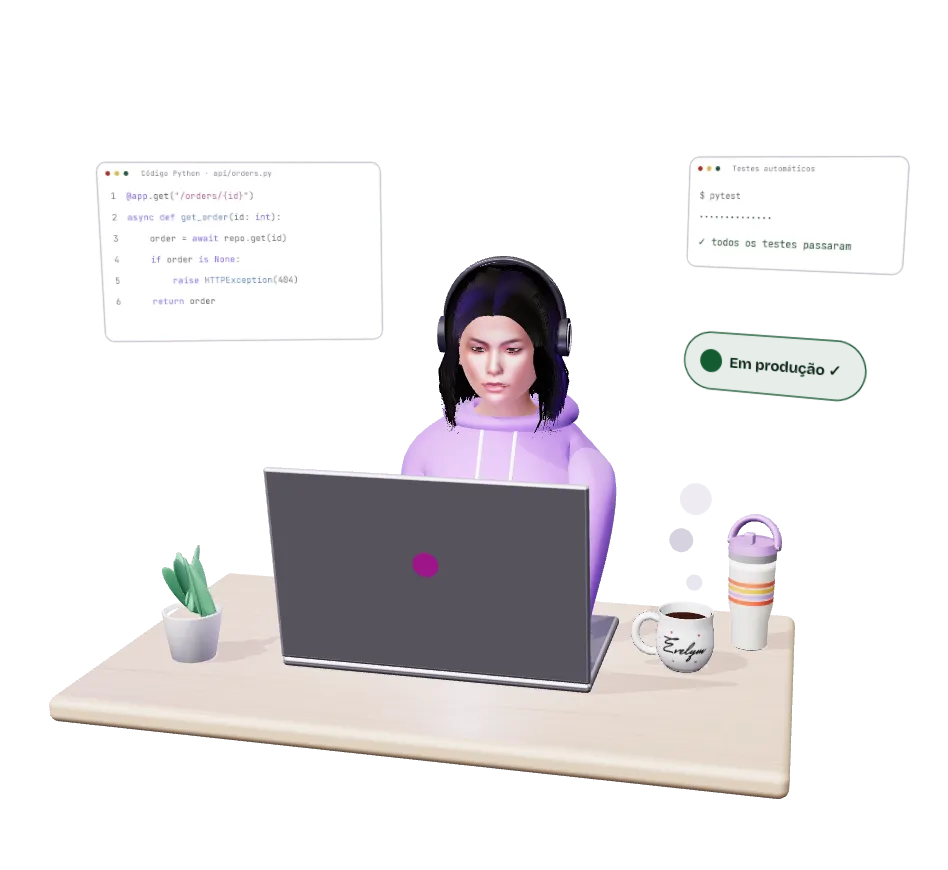
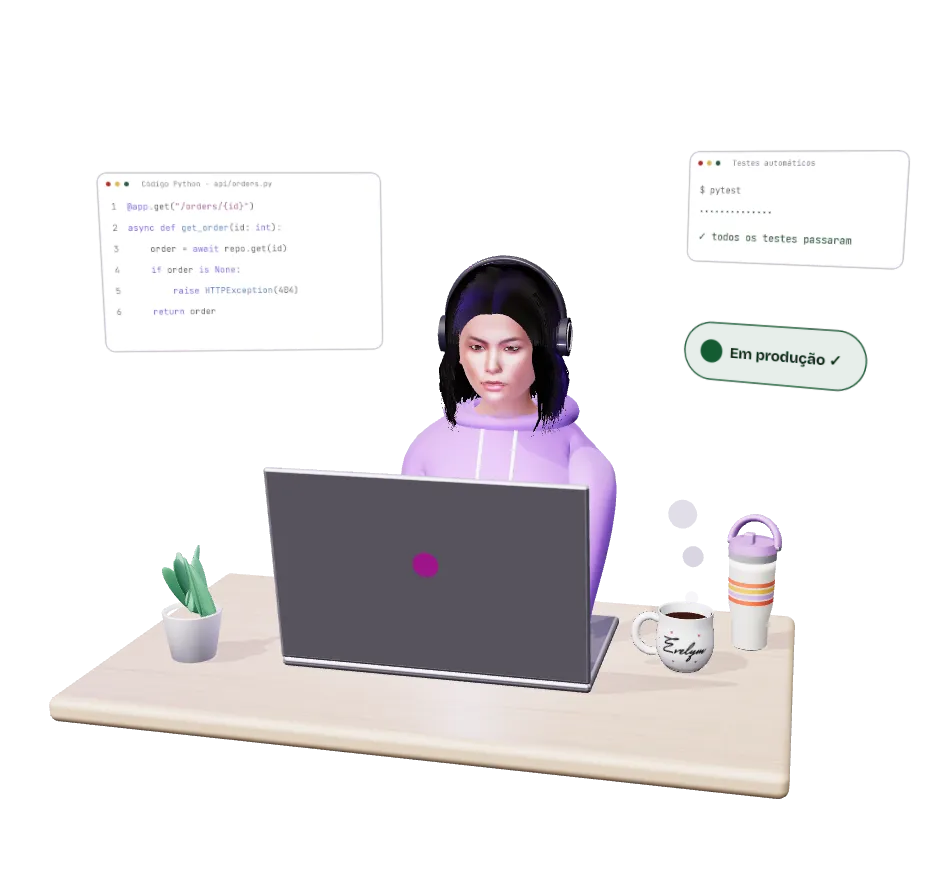
revert: tira o gole de café da cena e mantém só o sorriso no deploy

diff --git a/components/scene/hero-scene.ts b/components/scene/hero-scene.ts
@@ -93,7 +93,7 @@ const CYCLE = 24;
  * Momento da história do pôster e do primeiro quadro ao vivo: código pronto, testes passando e "Em produção". Começar
  * daqui deixa a troca imagem → cena imperceptível; depois a história recomeça sozinha.
  */
-const POSTER_T = 23.6;
+const POSTER_T = 20;
 /** Personagem gerada por scripts/personagem/ (npm run personagem; exportar.py gera o arquivo). */
 const MODEL_URL = "/models/evelym.glb";
 /** O modelo sai em metros; a cena usa uma escala maior (a mesa tem 2,15 de largura). */
@@ -716,93 +716,6 @@ export async function createHeroScene(
     qInv.copy(qParent).invert();
     b.quaternion.copy(qInv).multiply(q).multiply(qParent).multiply(rest.get(b)!);
   }
-  /* Gole de café depois do deploy (ideia da dona, 2026-11-23). A mão esquerda, do lado da caneca, segue uma curva
-     contínua do teclado até a caneca e dela até a boca, e volta pelo mesmo caminho. Ela segura a caneca pelo corpo, pelo
-     lado de fora: a mão fica do lado dela, o nome continua virado para a frente e nada cruza o rosto. O braço segue a mão
-     por cinemática inversa de dois ossos; o cotovelo começa no plano da pose de digitar (sem salto) e desce na subida. */
-  const armU = bone("upperarm_l");
-  const armL = bone("lowerarm_l");
-  root.updateMatrixWorld(true);
-  const restLocalU = armU.quaternion.clone();
-  const restLocalL = armL.quaternion.clone();
-  const restWorldU = armU.getWorldQuaternion(new Quaternion());
-  const restWorldL = armL.getWorldQuaternion(new Quaternion());
-  const S0 = armU.getWorldPosition(new Vector3());
-  const E0 = armL.getWorldPosition(new Vector3());
-  const W0 = hands[0].hand.getWorldPosition(new Vector3());
-  const lenU = S0.distanceTo(E0);
-  const lenL = E0.distanceTo(W0);
-  const dirU0 = E0.clone().sub(S0).normalize();
-  const dirL0 = W0.clone().sub(E0).normalize();
-  const poleRest = E0.clone().multiplyScalar(2).sub(S0.clone().add(W0).multiplyScalar(0.5));
-  const poleLift = S0.clone().add(new Vector3(0.55, -0.9, 0.15)); // cotovelo para fora e para baixo
-  const pole = new Vector3();
-  const mugHome = mug.position.clone();
-  const mugCenter = mug.localToWorld(new Vector3(0, 0.09, 0));
-  // punho do lado de fora da caneca (lado da personagem), um pouco atrás: os dedos a envolvem pela frente
-  const wristGrab = mugCenter.clone().add(new Vector3(0.12, 0.0, -0.1));
-  const mugFromWrist = mug.getWorldPosition(new Vector3()).sub(wristGrab);
-  const headCenter: Object3D = centro;
-  const mouth = headCenter
-    .getWorldPosition(new Vector3())
-    .add(new Vector3(0, -0.075 * MODEL_SCALE, 0.1 * MODEL_SCALE));
-  // caneca na boca: borda nos lábios, um pouco à frente e para o lado da mão
-  const wristMouth = mouth
-    .clone()
-    .add(new Vector3(0.03, -0.2, 0.12))
-    .sub(mugFromWrist);
-  const handPath = new CatmullRomCurve3(
-    [
-      W0,
-      W0.clone()
-        .lerp(wristGrab, 0.5)
-        .add(new Vector3(0.05, 0.08, 0)), // sobe um pouco ao sair do teclado
-      wristGrab,
-      wristGrab
-        .clone()
-        .lerp(wristMouth, 0.5)
-        .add(new Vector3(0.1, -0.02, 0)), // a caneca sobe pelo lado de fora
-      wristMouth,
-    ],
-    false,
-    "centripetal"
-  );
-  const GRAB = 0.5; // ponto da curva em que a mão chega à caneca (terceiro de cinco pontos)
-  const vS = new Vector3();
-  const vE = new Vector3();
-  const vW = new Vector3();
-  const vT = new Vector3();
-  const vDir = new Vector3();
-  const vN = new Vector3();
-  const vTmp = new Vector3();
-  const vHold = new Vector3();
-  const qArm = new Quaternion();
-  /** Põe o punho esquerdo em `target` (cena), com o cotovelo para o lado de `pole`. */
-  function reach(target: Vector3) {
-    armU.getWorldPosition(vS);
-    vDir.subVectors(target, vS);
-    const d = Math.min(vDir.length(), lenU + lenL - 1e-3);
-    vDir.normalize();
-    const cos = Math.min(1, Math.max(-1, (lenU * lenU + d * d - lenL * lenL) / (2 * lenU * d)));
-    vN.subVectors(pole, vS);
-    vN.addScaledVector(vDir, -vN.dot(vDir)).normalize();
-    vE.copy(vS)
-      .addScaledVector(vDir, lenU * cos)
-      .addScaledVector(vN, lenU * Math.sqrt(1 - cos * cos));
-    vW.copy(vS).addScaledVector(vDir, d);
-    qArm.setFromUnitVectors(dirU0, vTmp.subVectors(vE, vS).normalize()).multiply(restWorldU);
-    armU.parent!.getWorldQuaternion(qParent);
-    armU.quaternion.copy(qParent.invert()).multiply(qArm);
-    armU.updateMatrixWorld(true);
-    qArm.setFromUnitVectors(dirL0, vTmp.subVectors(vW, vE).normalize()).multiply(restWorldL);
-    armL.parent!.getWorldQuaternion(qParent);
-    armL.quaternion.copy(qParent.invert()).multiply(qArm);
-  }
-  const ease = (u: number, a: number, b: number) => {
-    const x = Math.min(1, Math.max(0, (u - a) / (b - a)));
-    return x * x * (3 - 2 * x);
-  };
-
   // Os fones são da cena (já aprovados), presos ao centro da cabeça, no tamanho da cabeça do modelo.
   const head = new Group();
   head.scale.setScalar(PHONES_SCALE);
@@ -1027,9 +940,9 @@ export async function createHeroScene(
           ? Math.sin(((bt - 0.3) / 0.16) * PI)
           : 0;
     for (const m of blinkers) m.morphTargetInfluences![m.morphTargetDictionary!.piscar] = blink;
-    // sorriso leve quando o deploy vai para produção (16 s), até ela pegar o café
+    // sorriso leve quando o deploy vai para produção (16 s); séria de novo antes do quadro do pôster (20 s)
     const sorrir =
-      Math.min(1, Math.max(0, (u - 16.3) / 0.6)) * Math.min(1, Math.max(0, (17.9 - u) / 0.5));
+      Math.min(1, Math.max(0, (u - 16.3) / 0.6)) * Math.min(1, Math.max(0, (19.6 - u) / 0.7));
     const smile = sorrir * sorrir * (3 - 2 * sorrir);
     for (const m of smilers) m.morphTargetInfluences![m.morphTargetDictionary!.sorriso] = smile;
     // mãos e dedos digitando (calmos quando o código termina)
@@ -1041,45 +954,15 @@ export async function createHeroScene(
         turn(f, qTurn.setFromAxisAngle(AX, curl));
       });
     });
-    // gole de café: uma ida contínua até a boca (18 a 19,9 s), o gole (19,9 a 21,1 s) e a volta (21,1 a 23 s)
-    const path = u < 19.9 ? ease(u, 18, 19.9) : u < 21.1 ? 1 : 1 - ease(u, 21.1, 23);
-    const sip = u >= 19.9 && u < 21.1 ? Math.sin(((u - 19.9) / 1.2) * PI) : 0;
-    const held = u >= 18 && u < 23 && path >= GRAB;
-    if (u >= 18 && u < 23) {
-      handPath.getPoint(path, vT);
-      pole.lerpVectors(poleRest, poleLift, ease(path, 0.3, 0.8));
-      reach(vT);
-      // dedos fechados em volta da caneca
-      if (path >= GRAB - 0.08)
-        for (const f of hands[0].fingers) turn(f, qTurn.setFromAxisAngle(AX, 0.85));
-    } else {
-      armU.quaternion.copy(restLocalU);
-      armL.quaternion.copy(restLocalL);
-    }
-    if (held) {
-      // a caneca vai com a mão e inclina a borda para a boca no gole, sem girar
-      vHold.copy(mugFromWrist).applyAxisAngle(AX, -0.55 * sip);
-      hands[0].hand.getWorldPosition(vTmp).add(vHold);
-      mug.position.copy(root.worldToLocal(vTmp));
-      mug.rotation.x = -0.55 * sip;
-    } else {
-      mug.position.copy(mugHome);
-      mug.rotation.x = 0;
-    }
-    // cabeça: leve aceno de concentração, acompanhando o ponteiro (e inclinada para trás no gole)
+    // cabeça: leve aceno de concentração, acompanhando o ponteiro
     ptr.x += (ptr.tx - ptr.x) * 0.06;
     ptr.y += (ptr.ty - ptr.y) * 0.06;
     qTurn.setFromAxisAngle(AY, Math.sin(t * 0.33) * 0.05 + ptr.x * 0.1);
-    turn(
-      headBone,
-      qTurn.multiply(qNod.setFromAxisAngle(AX, 0.06 + Math.sin(t * 0.8) * 0.02 - 0.2 * sip))
-    );
-    // o vapor some enquanto a caneca está fora da mesa
-    const steamOn = 1 - ease(u, 18.7, 19.2) + ease(u, 22.2, 22.8);
+    turn(headBone, qTurn.multiply(qNod.setFromAxisAngle(AX, 0.06 + Math.sin(t * 0.8) * 0.02)));
     steam.forEach((m, i) => {
       const fz = (t * 0.22 + i / 3) % 1;
       m.position.set(0.74 + Math.sin(fz * 6 + i) * 0.025, 0.2 + fz * 0.4, -0.18);
-      (m.material as MeshBasicMaterial).opacity = Math.sin(fz * PI) * steamPeak * steamOn;
+      (m.material as MeshBasicMaterial).opacity = Math.sin(fz * PI) * steamPeak;
       m.scale.setScalar(0.6 + fz * 1.2);
     });
     editor.m.position.y = 1.2 + Math.sin(t * 0.6) * 0.025;

diff --git a/openspec/changes/personagem-3d-modelada/tasks.md b/openspec/changes/personagem-3d-modelada/tasks.md
@@ -80,11 +80,8 @@ Termina com: a cena no navegador local com a personagem nova digitando, piscando
 > - sorriso animado (2026-11-23, ideia da dona): forma "sorriso" no corpo (cantos da boca, largura da boca e maçãs do
 >   rosto); ela fica séria e sorri de leve quando o selo vira "Em produção" (16 s), voltando a ficar séria antes do quadro
 >   do pôster (20 s), que segue neutro;
-> - gole de café (2026-11-23, ideia da dona): depois do deploy e do sorriso, a mão esquerda segue uma curva contínua do
->   teclado até a caneca (pega pelo corpo, pelo lado de fora, sem girar: o nome fica de frente) e dela até a boca (18 a
->   19,9 s); ela bebe inclinando a cabeça (19,9 a 21,1 s) e volta pelo mesmo caminho (até 23 s). O braço segue a mão por
->   cinemática inversa de dois ossos, com o cotovelo descendo na subida; o vapor some enquanto a caneca está na mão; o
->   quadro do pôster passou a 23,6 s (de volta ao teclado, séria);
+> - gole de café: testado em 2026-11-23 e retirado a pedido da dona; a caneca fica na mesa, e o pôster volta ao quadro
+>   de 20 s;
 > - falta: o carregamento em paralelo do modelo (4.2) e o resto do bloco 5.
 
 ## 5. Desempenho e fechamento
